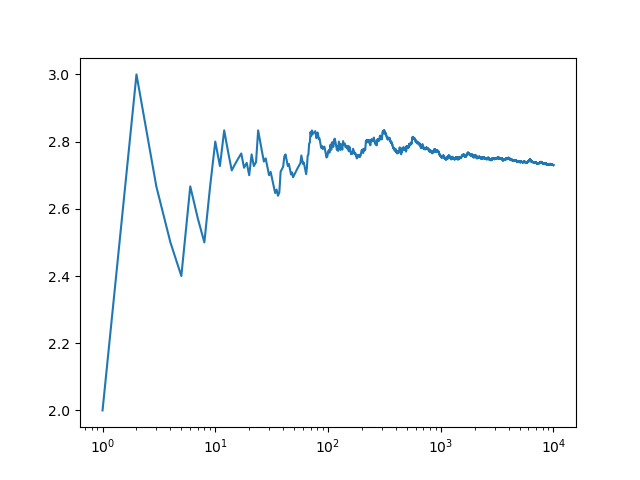
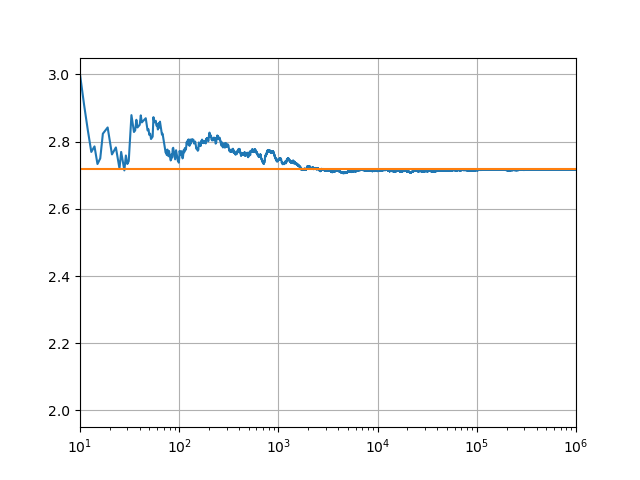
works but could do with some improvements

diff --git a/e.py b/e.py
@@ -1,10 +1,14 @@
+import math
+from tqdm import tqdm
 import matplotlib.pyplot as plt
 import numpy as np
 
-n=10000
+plt.ion()
+
+n=1000000
 totalnumber=np.zeros(n)
 
-for i in range(n):
+for i in tqdm(range(n)):
 
     sum=0
     number=0
@@ -19,6 +23,13 @@ for i in range(n):
         totalnumber[i] = totalnumber[i-1]+number
 
 plt.semilogx(np.arange(1,n+1), totalnumber/np.arange(1,n+1))
+
+plt.plot([1,n], [math.e, math.e])
+
+plt.grid()
+plt.xlim(10,n)
+#plt.ylim(2,3)
+
 
 plt.savefig('e.png')
 
